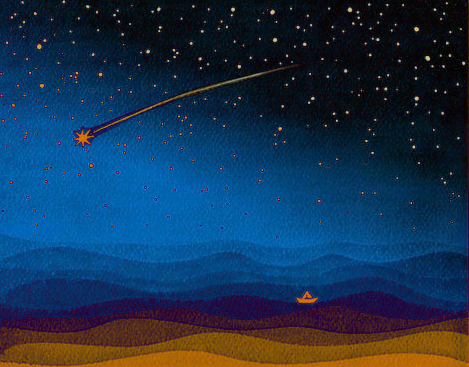
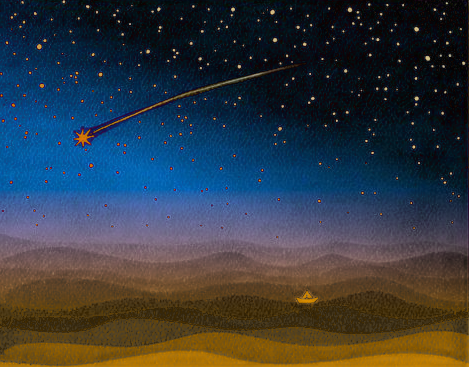
stage

diff --git a/index-4.html b/index-4.html
@@ -10,82 +10,6 @@
   <title>Check</title>
 </head>
 <body>
-  <div id="fb-root"></div>
-  <script>
-    // This is called with the results from from FB.getLoginStatus().
-    function statusChangeCallback(response) {
-      console.log('statusChangeCallback');
-      console.log(response);
-      // The response object is returned with a status field that lets the
-      // app know the current login status of the person.
-      // Full docs on the response object can be found in the documentation
-      // for FB.getLoginStatus().
-      if (response.status === 'connected') {
-        // Logged into your app and Facebook.
-        testAPI();
-      } else {
-        // The person is not logged into your app or we are unable to tell.
-        document.getElementById('status').innerHTML = 'Please log ' +
-          'into this app.';
-      }
-    }
-
-    // This function is called when someone finishes with the Login
-    // Button.  See the onlogin handler attached to it in the sample
-    // code below.
-    function checkLoginState() {
-      FB.getLoginStatus(function(response) {
-        statusChangeCallback(response);
-      });
-    }
-
-    window.fbAsyncInit = function() {
-      FB.init({
-        appId      : '{your-app-id}',
-        cookie     : true,  // enable cookies to allow the server to access
-                            // the session
-        xfbml      : true,  // parse social plugins on this page
-        version    : 'v2.8' // use graph api version 2.8
-      });
-
-      // Now that we've initialized the JavaScript SDK, we call
-      // FB.getLoginStatus().  This function gets the state of the
-      // person visiting this page and can return one of three states to
-      // the callback you provide.  They can be:
-      //
-      // 1. Logged into your app ('connected')
-      // 2. Logged into Facebook, but not your app ('not_authorized')
-      // 3. Not logged into Facebook and can't tell if they are logged into
-      //    your app or not.
-      //
-      // These three cases are handled in the callback function.
-
-      FB.getLoginStatus(function(response) {
-        statusChangeCallback(response);
-      });
-
-    };
-
-    // Load the SDK asynchronously
-    (function(d, s, id) {
-      var js, fjs = d.getElementsByTagName(s)[0];
-      if (d.getElementById(id)) return;
-      js = d.createElement(s); js.id = id;
-      js.src = "https://connect.facebook.net/en_US/sdk.js";
-      fjs.parentNode.insertBefore(js, fjs);
-    }(document, 'script', 'facebook-jssdk'));
-
-    // Here we run a very simple test of the Graph API after login is
-    // successful.  See statusChangeCallback() for when this call is made.
-    function testAPI() {
-      console.log('Welcome!  Fetching your information.... ');
-      FB.api('/me', function(response) {
-        console.log('Successful login for: ' + response.name);
-        document.getElementById('status').innerHTML =
-          'Thanks for logging in, ' + response.name + '!';
-      });
-    }
-  </script>
   <div id="wrapper">
     <div id="bckgr"></div>
     <div id="stars"></div>
@@ -278,6 +202,15 @@
     <section id="about">
       <div id=""></div>
     </section>
+    <footer id="mainFooter">
+      <h2></h2>
+      <ul>
+        <li><a href="">Introduction</a></li>
+        <li><a href="">Home</a></li>
+        <li><a href="">Login / Reguster</a></li>
+        <li><a href="">About</a></li>
+      </ul>
+    </footer>
   </div>
   <script type="text/javascript" src="javascript2.js"></script>
 </body>

diff --git a/CSS/style4.css b/CSS/style4.css
@@ -110,9 +110,6 @@ body {
   text-align: center;
   white-space: nowrap;
 }
-#main {
-  display: block;
-}
 #wrapper #bckgr {
   width: 100%;
   height: 100%;
@@ -120,7 +117,7 @@ body {
   background: url("../images/checkMobileBckgr.png");
   background-position: left top;
   background-size: contain;
-  background-repeat: no-repeat;
+  background-repeat: repeat;
   z-index: -1;
 }
 #wrapper #stars {
@@ -161,7 +158,7 @@ body {
 }
 #mainFrame > p {
   position: relative;
-  padding: 1em .7em;
+  padding: .2em .5em;
   text-align: center;
   grid-column-start: 2;
   grid-column-end: 3;
@@ -362,10 +359,11 @@ body {
   grid-column-end: 2;
   grid-row-start: 1;
   grid-row-end: 3;
+  z-index: 1;
 }
 #rewardFrame > p {
   position: relative;
-  padding: 1em .7em;
+  padding: .2em .5em;
   text-align: center;
   grid-column-start: 2;
   grid-column-end: 3;
@@ -399,12 +397,12 @@ body {
   height: 100%;
   top: 0;
   left: 0;
-  background-image: url("../images/moon.png");
+  background-image: url("../images/moon1.png");
   background-size: contain;
   background-position: left top;
   background-repeat: no-repeat;
   z-index: 0;
-  opacity: .5;
+  opacity: 1;
 }
 #rewardFrame .rewardList {
   grid-column-start: 2;
@@ -463,14 +461,14 @@ body {
 }
 #main #completeFrame {
   position: relative;
-  background-color: rgb(213, 135, 3);
+  background-color: rgb(181, 123, 12);
   margin-top: 0.2em;
   display: grid;
   grid-template-columns: 70px minmax(200px, 400px) 40px;
   grid-template-rows: 70px minmax(100px, 250px) minmax(100px, 300px) 70px;
   grid-row-gap: 1.5em;
   grid-column-gap: 1em;
-  padding: .5em 0;
+  padding: .5em 0 0 0;
 }
 #completeFrame > h2 {
   position: relative;
@@ -490,7 +488,7 @@ body {
 }
 #completeFrame > p {
   position: relative;
-  padding: .5em .7em;
+  padding: .2em .5em;
   text-align: center;
   grid-column-start: 2;
   grid-column-end: 3;
@@ -844,6 +842,26 @@ html #login label {
 	-o-box-shadow: 0 0 0 1px hsla(43,15%,59%,.4),0 2px 1px rgba(0,0,0,.07),0 3px 8px rgba(0,0,0,.15);
 	box-shadow: 0 0 0 1px hsla(43,15%,59%,.4),0 2px 1px rgba(0,0,0,.07),0 3px 8px rgba(0,0,0,.15);
 }
+
+/* ----------------------------- */
+/*            Footer             */
+/* ------------------------------*/
+
+#wrapper > #mainFooter {
+  margin-top: 0.3rem;
+  background-color: rgb(33, 35, 73);
+  height: 500px;
+}
+#mainFooter > h2 {
+  margin: 0;
+  padding: 0;
+}
+#mainFooter > ul {
+  margin: 0;
+  padding: 0;
+}
+
+
 
 @keyframes quoteColor {
   0% {
